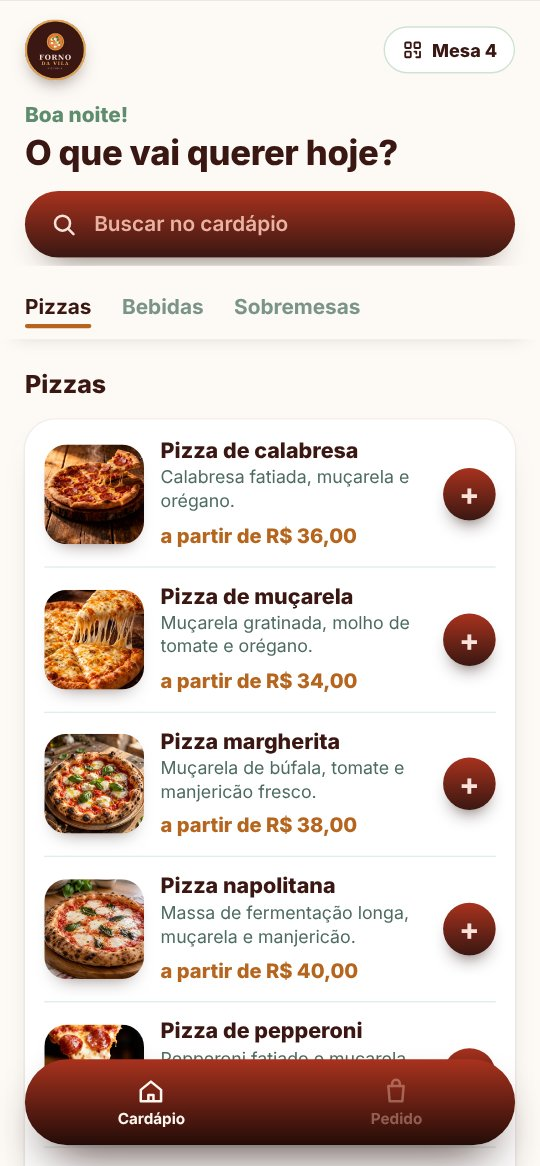
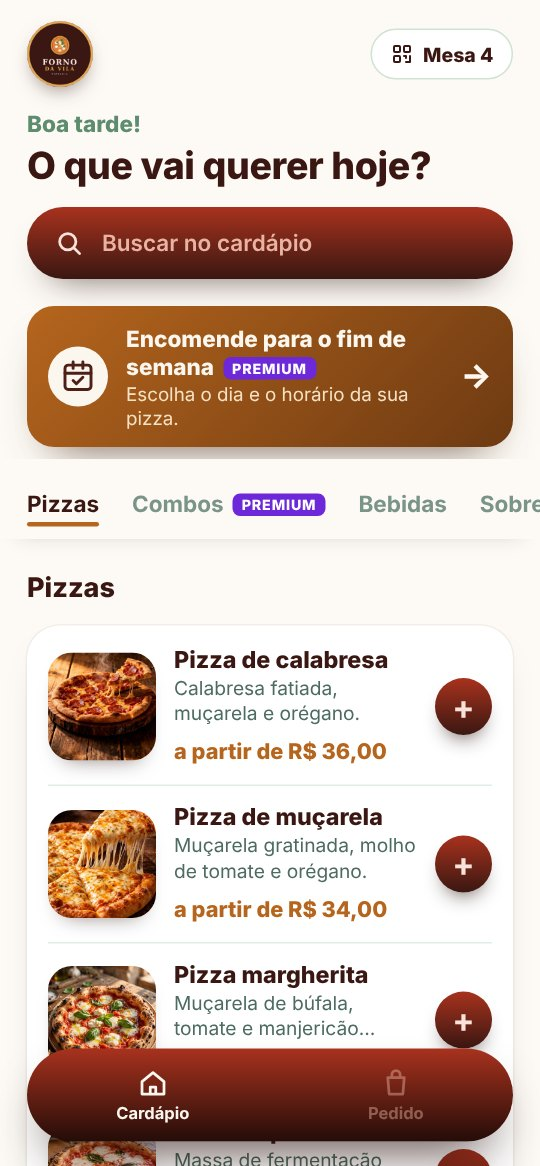
Premium com combos, faixa de encomenda e etiqueta PREMIUM; Meus pedidos só no MAX
Claude-Session: https://claude.ai/code/session_01HgHHTPfrbkb68SyEbuKcXt

diff --git a/public/demos/pizzaria/index.html b/public/demos/pizzaria/index.html
@@ -861,6 +861,8 @@ body > *:not(.palco):not(.toast):not(script):not(style):not(#toast):not(.faixa-p
 .faixa-plano{position:fixed;top:0;left:0;right:0;z-index:9999;height:34px;display:flex;align-items:center;justify-content:center;gap:8px;padding:0 10px;font:600 12px/1.2 Inter,system-ui,sans-serif;color:#EDE7FB;background:#1E1533;text-align:center;white-space:nowrap;overflow:hidden}
 .faixa-plano b{font-weight:800}
 .faixa-plano i{font-style:normal;font-size:10px;font-weight:800;letter-spacing:.06em;padding:2px 6px;border-radius:5px;background:#C9A227;color:#2E2203}
+.enc-faixa{padding:14px 18px 2px}.enc-faixa .enc-cartao{padding:12px 14px;gap:12px;border-radius:18px}.enc-faixa .enc-ic{width:40px;height:40px}.enc-faixa .enc-cartao b{font-size:15px}.enc-faixa .enc-cartao small{font-size:12.5px}
+.enc-cartao b::after,#cats [data-cat="encomendas"]::after,#cats [data-cat="combos"]::after{content:"PREMIUM";display:inline-block;margin-left:6px;padding:2px 6px;border-radius:5px;font:800 9.5px/1.2 Inter,system-ui,sans-serif;letter-spacing:.06em;background:#6D28D9;color:#fff;vertical-align:middle}
 </style>
 
 <header class="topo">
@@ -1020,14 +1022,14 @@ body > *:not(.palco):not(.toast):not(script):not(style):not(#toast):not(.faixa-p
   // ---------- cardápio ----------
   // g = gênero (para escrever por extenso: um/uma, dois/duas); s/p = singular/plural na comanda
   var F = 'img/';
-  var CATS_PADRAO = [{"id": "pizzas", "nome": "Pizzas", "curto": "Pizzas", "icon": "estrela", "visivel": true}, {"id": "bebidas", "nome": "Bebidas", "curto": "Bebidas", "icon": "frias", "visivel": true}, {"id": "sobremesas", "nome": "Sobremesas", "curto": "Sobremesas", "icon": "doces", "visivel": true}];
-  var PRODUTOS_PADRAO = [{"id": "calabresa", "cat": "pizzas", "g": "f", "s": "Pizza de calabresa", "p": "Pizzas de calabresa", "preco": 36, "desc": "Calabresa fatiada, muçarela e orégano.", "img": F + 'calabresa.jpg'}, {"id": "mucarela", "cat": "pizzas", "g": "f", "s": "Pizza de muçarela", "p": "Pizzas de muçarela", "preco": 34, "desc": "Muçarela gratinada, molho de tomate e orégano.", "img": F + 'mucarela.jpg'}, {"id": "margherita", "cat": "pizzas", "g": "f", "s": "Pizza margherita", "p": "Pizzas margherita", "preco": 38, "desc": "Muçarela de búfala, tomate e manjericão fresco.", "img": F + 'margherita.jpg'}, {"id": "napolitana", "cat": "pizzas", "g": "f", "s": "Pizza napolitana", "p": "Pizzas napolitanas", "preco": 40, "desc": "Massa de fermentação longa, muçarela e manjericão.", "img": F + 'napolitana.jpg'}, {"id": "pepperoni", "cat": "pizzas", "g": "f", "s": "Pizza de pepperoni", "p": "Pizzas de pepperoni", "preco": 44, "desc": "Pepperoni fatiado e muçarela puxa-puxa.", "img": F + 'pepperoni.jpg'}, {"id": "tomatecereja", "cat": "pizzas", "g": "f", "s": "Pizza de tomate-cereja", "p": "Pizzas de tomate-cereja", "preco": 42, "desc": "Tomate-cereja, muçarela e folhas de manjericão.", "img": F + 'tomatecereja.jpg'}, {"id": "suprema", "cat": "pizzas", "g": "f", "s": "Pizza suprema da casa", "p": "Pizzas supremas da casa", "preco": 46, "desc": "Pepperoni, pimentão, cebola roxa e champignon.", "img": F + 'suprema.jpg'}, {"id": "coca", "cat": "bebidas", "g": "m", "s": "Refrigerante 250 ml", "p": "Refrigerantes 250 ml", "preco": 7, "desc": "Garrafinha de vidro, bem gelada.", "img": F + 'coca.jpg'}, {"id": "suco", "cat": "bebidas", "g": "m", "s": "Suco natural", "p": "Sucos naturais", "preco": 10, "desc": "Laranja, verde ou frutas vermelhas.", "img": F + 'suco.jpg'}, {"id": "agua", "cat": "bebidas", "g": "f", "s": "Água mineral", "p": "Águas minerais", "preco": 4, "desc": "500 ml, com ou sem gás.", "img": F + 'agua.jpg'}, {"id": "pudim", "cat": "sobremesas", "g": "m", "s": "Pudim de leite", "p": "Pudins de leite", "preco": 10, "desc": "Fatia generosa com calda de caramelo.", "img": F + 'pudim.jpg'}, {"id": "brownie", "cat": "sobremesas", "g": "m", "s": "Brownie", "p": "Brownies", "preco": 10, "desc": "Chocolate meio amargo e casquinha crocante.", "img": F + 'brownie.jpg'}];
+  var CATS_PADRAO = [{"id": "pizzas", "nome": "Pizzas", "curto": "Pizzas", "icon": "estrela", "visivel": true}, {"id": "combos", "nome": "Combos", "curto": "Combos", "icon": "estrela", "visivel": true}, {"id": "bebidas", "nome": "Bebidas", "curto": "Bebidas", "icon": "frias", "visivel": true}, {"id": "sobremesas", "nome": "Sobremesas", "curto": "Sobremesas", "icon": "doces", "visivel": true}];
+  var PRODUTOS_PADRAO = [{"id": "calabresa", "cat": "pizzas", "g": "f", "s": "Pizza de calabresa", "p": "Pizzas de calabresa", "preco": 36, "desc": "Calabresa fatiada, muçarela e orégano.", "img": F + 'calabresa.jpg'}, {"id": "mucarela", "cat": "pizzas", "g": "f", "s": "Pizza de muçarela", "p": "Pizzas de muçarela", "preco": 34, "desc": "Muçarela gratinada, molho de tomate e orégano.", "img": F + 'mucarela.jpg'}, {"id": "margherita", "cat": "pizzas", "g": "f", "s": "Pizza margherita", "p": "Pizzas margherita", "preco": 38, "desc": "Muçarela de búfala, tomate e manjericão fresco.", "img": F + 'margherita.jpg'}, {"id": "napolitana", "cat": "pizzas", "g": "f", "s": "Pizza napolitana", "p": "Pizzas napolitanas", "preco": 40, "desc": "Massa de fermentação longa, muçarela e manjericão.", "img": F + 'napolitana.jpg'}, {"id": "pepperoni", "cat": "pizzas", "g": "f", "s": "Pizza de pepperoni", "p": "Pizzas de pepperoni", "preco": 44, "desc": "Pepperoni fatiado e muçarela puxa-puxa.", "img": F + 'pepperoni.jpg'}, {"id": "tomatecereja", "cat": "pizzas", "g": "f", "s": "Pizza de tomate-cereja", "p": "Pizzas de tomate-cereja", "preco": 42, "desc": "Tomate-cereja, muçarela e folhas de manjericão.", "img": F + 'tomatecereja.jpg'}, {"id": "suprema", "cat": "pizzas", "g": "f", "s": "Pizza suprema da casa", "p": "Pizzas supremas da casa", "preco": 46, "desc": "Pepperoni, pimentão, cebola roxa e champignon.", "img": F + 'suprema.jpg'}, {"id": "combofamilia", "cat": "combos", "g": "m", "s": "Combo família", "p": "Combos família", "preco": 59, "desc": "Pizza grande de calabresa ou muçarela + refrigerante 2 L.", "img": F + 'calabresa.jpg'}, {"id": "combocasal", "cat": "combos", "g": "m", "s": "Combo casal", "p": "Combos casal", "preco": 49, "desc": "Pizza margherita + 2 refrigerantes 250 ml.", "img": F + 'margherita.jpg'}, {"id": "coca", "cat": "bebidas", "g": "m", "s": "Refrigerante 250 ml", "p": "Refrigerantes 250 ml", "preco": 7, "desc": "Garrafinha de vidro, bem gelada.", "img": F + 'coca.jpg'}, {"id": "suco", "cat": "bebidas", "g": "m", "s": "Suco natural", "p": "Sucos naturais", "preco": 10, "desc": "Laranja, verde ou frutas vermelhas.", "img": F + 'suco.jpg'}, {"id": "agua", "cat": "bebidas", "g": "f", "s": "Água mineral", "p": "Águas minerais", "preco": 4, "desc": "500 ml, com ou sem gás.", "img": F + 'agua.jpg'}, {"id": "pudim", "cat": "sobremesas", "g": "m", "s": "Pudim de leite", "p": "Pudins de leite", "preco": 10, "desc": "Fatia generosa com calda de caramelo.", "img": F + 'pudim.jpg'}, {"id": "brownie", "cat": "sobremesas", "g": "m", "s": "Brownie", "p": "Brownies", "preco": 10, "desc": "Chocolate meio amargo e casquinha crocante.", "img": F + 'brownie.jpg'}];
   PRODUTOS_PADRAO.forEach(function(p){ if (!p.nome) p.nome = p.s; p.esgotado = false; });
   var LOJA_PADRAO = {"nome": "Forno da Vila", "whats": "5535999945992"};
   var SEM_FOTO = svg('<rect x="16" y="20" width="32" height="24" rx="4" fill="none" stroke="#8C8A72" stroke-width="2.5"/><circle cx="32" cy="32" r="6" fill="none" stroke="#8C8A72" stroke-width="2.5"/><path d="M26 20l2-4h8l2 4" fill="none" stroke="#8C8A72" stroke-width="2.5" stroke-linejoin="round"/>');
 
   // o cardápio (categorias, produtos e dados da loja) fica salvo e pode ser editado pelo dono
-  var CHAVE_CARD = 'pizzaria-cardapio-v2';
+  var CHAVE_CARD = 'pizzaria-cardapio-v3';
   function cardapioPadrao(){ return JSON.parse(JSON.stringify({cats:CATS_PADRAO, produtos:PRODUTOS_PADRAO, loja:LOJA_PADRAO})); }
   var card;
   try { card = JSON.parse(localStorage.getItem(CHAVE_CARD) || 'null'); } catch(e) { card = null; }
@@ -1106,11 +1108,11 @@ body > *:not(.palco):not(.toast):not(script):not(style):not(#toast):not(.faixa-p
   var somLigado = true, aba = 'cliente', naoVistos = 0, ultimoImpresso = null;
   // ---------- planos (a demonstração muda conforme o plano escolhido no topo) ----------
   var PLANOS = {
-    pro:{nome:'PRO', mesas:6, produtos:30, auto:true, meus:false, selo:true, enc:false, tv:false, data:false, conta:false, garcom:false, dst:false, obs:false,
+    pro:{nome:'PRO', mesas:6, produtos:30, auto:true, combos:false, lista:false, meus:false, selo:true, enc:false, tv:false, data:false, conta:false, garcom:false, dst:false, obs:false,
       desc:'<b>PRO · R$ 129,90/mês.</b> Até 6 mesas e 30 produtos. Comanda impressa automaticamente. O cliente vê só o número do pedido. Selo "Feito por Octa Sites" no cardápio.'},
-    premium:{nome:'PREMIUM', mesas:10, produtos:45, auto:true, meus:true, selo:false, enc:true, tv:false, data:false, conta:false, garcom:false, dst:false, obs:true,
-      desc:'<b>PREMIUM · R$ 189,90/mês.</b> Até 10 mesas e 45 produtos. Adicionais e combos, promoções em destaque e encomendas com data. O cliente acompanha o pedido em "Meus pedidos".'},
-    max:{nome:'MAX', mesas:0, produtos:0, auto:true, meus:true, selo:false, enc:true, tv:false, data:true, conta:true, garcom:true, dst:true, obs:true,
+    premium:{nome:'PREMIUM', mesas:10, produtos:45, auto:true, combos:true, lista:false, meus:true, selo:false, enc:true, tv:false, data:false, conta:false, garcom:false, dst:false, obs:true,
+      desc:'<b>PREMIUM · R$ 189,90/mês.</b> Até 10 mesas e 45 produtos. Adicionais e combos e encomendas com data. O cliente acompanha o preparo do pedido pelo celular.'},
+    max:{nome:'MAX', mesas:0, produtos:0, auto:true, combos:true, lista:true, meus:true, selo:false, enc:true, tv:false, data:true, conta:true, garcom:true, dst:true, obs:true,
       desc:'<b>MAX · R$ 249,90/mês.</b> Tudo do Premium, sem limite de mesas e produtos, pedir a conta dividida e chamar o garçom pelo celular.'}
   };
   var plano = 'premium';
@@ -1184,7 +1186,7 @@ body > *:not(.palco):not(.toast):not(script):not(style):not(#toast):not(.faixa-p
       : (ativos.length ? (ativos.length === 1 ? 'Pedido nº ' + ativos[0].id + ' em preparo' : ativos.length + ' pedidos em preparo') : 'Seus pedidos de hoje');
     return '<i class="' + (prontos.length ? 'pronto' : (ativos.length ? '' : 'parado')) + '" aria-hidden="true"></i>' + txt;
   }
-  function faixaMeus(){ return P().meus && meusPedidos().length ? '<button type="button" class="meus-faixa" data-acao="meus"><span id="meusTxt">' + textoFaixaMeus() + '</span><u>Meus pedidos →</u></button>' : ''; }
+  function faixaMeus(){ return P().lista && meusPedidos().length ? '<button type="button" class="meus-faixa" data-acao="meus"><span id="meusTxt">' + textoFaixaMeus() + '</span><u>Meus pedidos →</u></button>' : ''; }
   function atualizarCliente(){
     if (cli.tela === 'confirmado' || cli.tela === 'meus' || cli.tela === 'conta') { var y = guardarRolagem(); renderCliente(); restaurarRolagem(y); }
     else { var t = $('meusTxt'); if (t) t.innerHTML = textoFaixaMeus(); else if (meusPedidos().length && (cli.tela === 'cardapio' || cli.tela === 'revisao')) { var y2 = guardarRolagem(); renderCliente(); restaurarRolagem(y2); } }
@@ -1377,7 +1379,7 @@ body > *:not(.palco):not(.toast):not(script):not(style):not(#toast):not(.faixa-p
         '</div>' + (P().enc ? '<button type="button" class="ir-encomenda" data-acao="ir-encomenda">' + ICON.agenda + '<span><b>Encomendas com data marcada</b><span>Bolos inteiros, tortas e salgados para festas</span></span></button>' : '') + '</div>';
     }
     else if (cli.tela === 'cardapio') {
-      var visiveis = CATS.filter(function(c){ return c.visivel && PRODUTOS.some(function(p){ return p.cat === c.id; }); });
+      var visiveis = CATS.filter(function(c){ return c.visivel && (c.id !== 'combos' || P().combos) && PRODUTOS.some(function(p){ return p.cat === c.id; }); });
       if (!cli.aba || (cli.aba !== 'encomendas' && !visiveis.some(function(c){ return c.id === cli.aba; }))) cli.aba = (visiveis.filter(function(c){ return c.id === 'cafes'; })[0] || visiveis[0] || {}).id;
       var hr = new Date().getHours(), oi = hr < 12 ? 'Bom dia!' : hr < 18 ? 'Boa tarde!' : 'Boa noite!';
       h += '<div class="app" id="lista">';
@@ -1395,6 +1397,7 @@ body > *:not(.palco):not(.toast):not(script):not(style):not(#toast):not(.faixa-p
         if (P().data) destq.push('<button type="button" class="dst dst-natal" data-acao="ver-prod" data-id="suprema" style="--f:url(\'img/natal.jpg\')"><span class="dst-tag">Quarta da pizza</span><b>Pizza grande</b><small>Pelo preço da média, toda quarta</small></button>');
         if (P().dst) ['margherita', 'pepperoni', 'mucarela', 'tomatecereja'].forEach(function(id){ var p = PROD[id]; if (p && !p.esgotado) destq.push('<button type="button" class="dst" data-acao="ver-prod" data-id="' + p.id + '" style="--f:url(\'' + p.img + '\')"><span class="dst-tag">Destaque</span><b>' + esc(p.nome) + '</b><small>' + fmt(p.preco) + '</small></button>'); });
         if (destq.length) h += '<div class="dst-faixa" aria-label="Destaques do dia">' + destq.join('') + '</div>';
+        else if (P().enc) h += '<div class="enc-faixa"><button type="button" class="enc-cartao" data-acao="abrir-enc"><span class="enc-ic">' + ICON.agenda + '</span><span><b>Encomende para o fim de semana</b><small>Escolha o dia e o horário da sua pizza.</small></span><span class="enc-seta" aria-hidden="true">→</span></button></div>';
         h += '<nav class="app-abas" id="cats" aria-label="Categorias">';
         visiveis.forEach(function(c, k){ h += '<button type="button" data-acao="aba" data-cat="' + c.id + '"' + (k === 0 ? ' aria-current="true"' : '') + '>' + esc(c.curto || c.nome) + '</button>'; });
         if (P().enc) h += '<button type="button" data-acao="aba" data-cat="encomendas">Encomendas</button>';
@@ -1409,7 +1412,7 @@ body > *:not(.palco):not(.toast):not(script):not(style):not(#toast):not(.faixa-p
       if (n) h += '<button type="button" class="app-resumo" data-acao="revisar"><span>' + n + (n === 1 ? ' item' : ' itens') + ' no pedido</span><b>Ver pedido · ' + fmt(totalDe(cli.carrinho)) + '</b></button>';
       h += '<nav class="app-nav" aria-label="Navegação"><button type="button" data-acao="aba-inicio" aria-current="true" aria-label="Cardápio">' + CASA + '<span>Cardápio</span></button>' +
         '<button type="button" data-acao="revisar"' + (n ? '' : ' disabled') + ' aria-label="Meu pedido">' + SACOLA + '<span>Pedido</span>' + (n ? '<em>' + n + '</em>' : '') + '</button>' +
-        (temMesa() ? '<button type="button" data-acao="mesa-painel" aria-expanded="' + !!cli.painelMesa + '" aria-label="Mesa">' + SINO + '<span>Mesa</span></button>' : (P().meus && meusPedidos().length ? '<button type="button" data-acao="meus" aria-label="Meus pedidos">' + RECIBO + '<span>Pedidos</span></button>' : '')) + '</nav>';
+        (temMesa() ? '<button type="button" data-acao="mesa-painel" aria-expanded="' + !!cli.painelMesa + '" aria-label="Mesa">' + SINO + '<span>Mesa</span></button>' : (P().lista && meusPedidos().length ? '<button type="button" data-acao="meus" aria-label="Meus pedidos">' + RECIBO + '<span>Pedidos</span></button>' : '')) + '</nav>';
       if (cli.painelMesa && temMesa()) h += '<div class="app-mesa" role="dialog" aria-label="Mesa ' + cli.mesa + '"><b>Mesa ' + cli.mesa + '</b>' + mesaAcoes() + '<button type="button" class="app-mesa-x" data-acao="mesa-painel">Fechar</button></div>';
       if (cli.verProd) h += telaProduto();
       if (cli.verEnc && P().enc) h += '<div class="prod-tela enc-tela" role="dialog" aria-modal="true" aria-label="Encomendas"><div class="enc-topo"><button type="button" class="voltar-prod" data-acao="fechar-enc" aria-label="Voltar ao cardápio">←</button><b>Encomendas</b></div><div class="enc-corpo">' + blocoEncomenda() + '</div></div>';
@@ -1452,9 +1455,9 @@ body > *:not(.palco):not(.toast):not(script):not(style):not(#toast):not(.faixa-p
       });
       var nMeus = meusPedidos().length;
       h += '</ol><p class="dica-painel">Na demonstração, mude o status no painel da padaria e veja esta tela atualizar.</p><button type="button" class="btn-sec" data-acao="novo">Fazer outro pedido</button>' +
-        (nMeus > 1 ? '<button type="button" class="btn-sec" data-acao="meus" style="border-color:var(--borda)">Ver todos os meus pedidos (' + nMeus + ')</button>' : '') + '</div></div>';
+        (P().lista && nMeus > 1 ? '<button type="button" class="btn-sec" data-acao="meus" style="border-color:var(--borda)">Ver todos os meus pedidos (' + nMeus + ')</button>' : '') + '</div></div>';
     }
-    else if (cli.tela === 'meus' && !P().meus) { cli.tela = 'cardapio'; return renderCliente(); }
+    else if (cli.tela === 'meus' && !P().lista) { cli.tela = 'cardapio'; return renderCliente(); }
     else if (cli.tela === 'meus') {
       var NOME_ST = {novo:'Em preparo', pronto:'Pronto', entregue:'Entregue'};
       h += '<div class="rolagem"><div class="sec"><button type="button" class="voltar" data-acao="voltar">← Voltar ao cardápio</button><h3 style="font-size:15px;font-weight:800;letter-spacing:.09em;text-transform:uppercase;color:var(--vinho);margin:4px 0 12px;padding-bottom:8px;border-bottom:2px solid var(--ouro)">Meus pedidos de hoje</h3><div class="meus-lista">';
@@ -2070,7 +2073,7 @@ body > *:not(.palco):not(.toast):not(script):not(style):not(#toast):not(.faixa-p
     $('impTexto').textContent = p.auto ? 'Cada pedido novo toca um aviso e é impresso na hora, com o destino em letras grandes.' : 'Cada pedido novo toca um aviso no painel. A equipe toca em "Imprimir" e a comanda sai, com o destino em letras grandes.';
     $('impEnc').hidden = !p.enc;
     if (cli.modo === 'mesa' && p.mesas && cli.mesa > p.mesas) { var enc = cli.enc; cli = novoCliente(); cli.enc = enc; }
-    if (!p.meus && cli.tela === 'meus') cli.tela = 'cardapio';
+    if (!p.lista && cli.tela === 'meus') cli.tela = 'cardapio';
     if (!p.conta && cli.tela === 'conta') cli.tela = 'cardapio';
     montarQR(); renderCliente(); renderPainel(); renderEditor();
   }

diff --git a/public/demos/marmitaria/index.html b/public/demos/marmitaria/index.html
@@ -1119,12 +1119,12 @@ body > *:not(.palco):not(.toast):not(script):not(style):not(#toast):not(#zapNoti
   var somLigado = true, aba = 'cliente', naoVistos = 0, ultimoImpresso = null;
   // ---------- planos (a demonstração muda conforme o plano escolhido no topo) ----------
   var PLANOS = {
-    delivery:{nome:'OCTA DELIVERY', mesas:0, produtos:30, auto:true, meus:true, selo:true, enc:false, tv:false, data:false, conta:false, garcom:false, desc:''},
-    pro:{nome:'PRO', mesas:6, produtos:30, auto:true, meus:false, selo:true, enc:false, tv:false, data:false, conta:false, garcom:false,
+    delivery:{nome:'OCTA DELIVERY', mesas:0, produtos:30, auto:true, lista:false, meus:true, selo:true, enc:false, tv:false, data:false, conta:false, garcom:false, desc:''},
+    pro:{nome:'PRO', mesas:6, produtos:30, auto:true, lista:false, meus:false, selo:true, enc:false, tv:false, data:false, conta:false, garcom:false,
       desc:'<b>PRO · R$ 129,90/mês.</b> Até 6 mesas e 30 produtos. Comanda impressa automaticamente. O cliente vê só o número do pedido. Selo "Feito por Octa Sites" no cardápio.'},
-    premium:{nome:'PREMIUM', mesas:10, produtos:45, auto:true, meus:true, selo:false, enc:true, tv:false, data:false, conta:false, garcom:false,
+    premium:{nome:'PREMIUM', mesas:10, produtos:45, auto:true, lista:false, meus:true, selo:false, enc:true, tv:false, data:false, conta:false, garcom:false,
       desc:'<b>PREMIUM · R$ 189,90/mês.</b> Até 10 mesas e 45 produtos. Adicionais e combos, promoções em destaque e encomendas com data. O cliente acompanha o pedido.'},
-    max:{nome:'MAX', mesas:0, produtos:0, auto:true, meus:true, selo:false, enc:true, tv:false, data:true, conta:true, garcom:true,
+    max:{nome:'MAX', mesas:0, produtos:0, auto:true, lista:true, meus:true, selo:false, enc:true, tv:false, data:true, conta:true, garcom:true,
       desc:'<b>MAX · R$ 249,90/mês.</b> Tudo do Premium, sem limite de mesas e produtos, pedir a conta dividida, chamar o garçom pelo celular e relatório mensal.'}
   };
   var plano = 'delivery';
@@ -1198,7 +1198,7 @@ body > *:not(.palco):not(.toast):not(script):not(style):not(#toast):not(#zapNoti
       : (ativos.length ? (ativos.length === 1 ? 'Pedido nº ' + ativos[0].id + ' em preparo' : ativos.length + ' pedidos em preparo') : 'Seus pedidos de hoje');
     return '<i class="' + (prontos.length ? 'pronto' : (ativos.length ? '' : 'parado')) + '" aria-hidden="true"></i>' + txt;
   }
-  function faixaMeus(){ return P().meus && meusPedidos().length ? '<button type="button" class="meus-faixa" data-acao="meus"><span id="meusTxt">' + textoFaixaMeus() + '</span><u>Meus pedidos →</u></button>' : ''; }
+  function faixaMeus(){ return P().lista && meusPedidos().length ? '<button type="button" class="meus-faixa" data-acao="meus"><span id="meusTxt">' + textoFaixaMeus() + '</span><u>Meus pedidos →</u></button>' : ''; }
   function atualizarCliente(){
     if (cli.tela === 'confirmado' || cli.tela === 'meus' || cli.tela === 'conta') { var y = guardarRolagem(); renderCliente(); restaurarRolagem(y); }
     else { var t = $('meusTxt'); if (t) t.innerHTML = textoFaixaMeus(); else if (meusPedidos().length && (cli.tela === 'cardapio' || cli.tela === 'revisao')) { var y2 = guardarRolagem(); renderCliente(); restaurarRolagem(y2); } }
@@ -1423,7 +1423,7 @@ body > *:not(.palco):not(.toast):not(script):not(style):not(#toast):not(#zapNoti
       if (n) h += '<button type="button" class="app-resumo" data-acao="revisar"><span>' + n + (n === 1 ? ' item' : ' itens') + ' no pedido</span><b>Ver pedido · ' + fmt(totalDe(cli.carrinho)) + '</b></button>';
       h += '<nav class="app-nav" aria-label="Navegação"><button type="button" data-acao="aba-inicio" aria-current="true" aria-label="Cardápio">' + CASA + '<span>Cardápio</span></button>' +
         '<button type="button" data-acao="revisar"' + (n ? '' : ' disabled') + ' aria-label="Meu pedido">' + SACOLA + '<span>Pedido</span>' + (n ? '<em>' + n + '</em>' : '') + '</button>' +
-        (temMesa() ? '<button type="button" data-acao="mesa-painel" aria-expanded="' + !!cli.painelMesa + '" aria-label="Mesa">' + SINO + '<span>Mesa</span></button>' : (P().meus && meusPedidos().length ? '<button type="button" data-acao="meus" aria-label="Meus pedidos">' + RECIBO + '<span>Pedidos</span></button>' : '')) + '</nav>';
+        (temMesa() ? '<button type="button" data-acao="mesa-painel" aria-expanded="' + !!cli.painelMesa + '" aria-label="Mesa">' + SINO + '<span>Mesa</span></button>' : (P().lista && meusPedidos().length ? '<button type="button" data-acao="meus" aria-label="Meus pedidos">' + RECIBO + '<span>Pedidos</span></button>' : '')) + '</nav>';
       if (cli.painelMesa && temMesa()) h += '<div class="app-mesa" role="dialog" aria-label="Mesa ' + cli.mesa + '"><b>Mesa ' + cli.mesa + '</b>' + mesaAcoes() + '<button type="button" class="app-mesa-x" data-acao="mesa-painel">Fechar</button></div>';
       if (cli.verProd) h += telaProduto();
       if (cli.verEnc && P().enc) h += '<div class="prod-tela enc-tela" role="dialog" aria-modal="true" aria-label="Encomendas"><div class="enc-topo"><button type="button" class="voltar-prod" data-acao="fechar-enc" aria-label="Voltar ao cardápio">←</button><b>Encomendas</b></div><div class="enc-corpo">' + blocoEncomenda() + '</div></div>';
@@ -1468,9 +1468,9 @@ body > *:not(.palco):not(.toast):not(script):not(style):not(#toast):not(#zapNoti
       });
       var nMeus = meusPedidos().length;
       h += '</ol><p class="dica-painel">Na demonstração, mude o status no painel da padaria e veja esta tela atualizar.</p><button type="button" class="btn-sec" data-acao="novo">Fazer outro pedido</button>' +
-        (nMeus > 1 ? '<button type="button" class="btn-sec" data-acao="meus" style="border-color:var(--borda)">Ver todos os meus pedidos (' + nMeus + ')</button>' : '') + '</div></div>';
+        (P().lista && nMeus > 1 ? '<button type="button" class="btn-sec" data-acao="meus" style="border-color:var(--borda)">Ver todos os meus pedidos (' + nMeus + ')</button>' : '') + '</div></div>';
     }
-    else if (cli.tela === 'meus' && !P().meus) { cli.tela = 'cardapio'; return renderCliente(); }
+    else if (cli.tela === 'meus' && !P().lista) { cli.tela = 'cardapio'; return renderCliente(); }
     else if (cli.tela === 'meus') {
       var NOME_ST = {novo:'Em preparo', pronto:'Pronto', entregue:'Entregue'};
       h += '<div class="rolagem"><div class="sec"><button type="button" class="voltar" data-acao="voltar">← Voltar ao cardápio</button><h3 style="font-size:15px;font-weight:800;letter-spacing:.09em;text-transform:uppercase;color:var(--vinho);margin:4px 0 12px;padding-bottom:8px;border-bottom:2px solid var(--ouro)">Meus pedidos de hoje</h3><div class="meus-lista">';
@@ -2164,7 +2164,7 @@ body > *:not(.palco):not(.toast):not(script):not(style):not(#toast):not(#zapNoti
     $('impTexto').textContent = p.auto ? 'Cada pedido novo toca um aviso e é impresso na hora, com o destino em letras grandes.' : 'Cada pedido novo toca um aviso no painel. A equipe toca em "Imprimir" e a comanda sai, com o destino em letras grandes.';
     $('impEnc').hidden = !p.enc;
     if (cli.modo === 'mesa' && p.mesas && cli.mesa > p.mesas) { var enc = cli.enc; cli = novoCliente(); cli.enc = enc; }
-    if (!p.meus && cli.tela === 'meus') cli.tela = 'cardapio';
+    if (!p.lista && cli.tela === 'meus') cli.tela = 'cardapio';
     if (!p.conta && cli.tela === 'conta') cli.tela = 'cardapio';
     montarQR(); renderCliente(); renderPainel(); renderEditor();
   }

diff --git a/public/demos/hamburgueria/index.html b/public/demos/hamburgueria/index.html
@@ -1108,11 +1108,11 @@ body > *:not(.palco):not(.toast):not(script):not(style):not(#toast):not(.faixa-p
   var somLigado = true, aba = 'cliente', naoVistos = 0, ultimoImpresso = null;
   // ---------- planos (a demonstração muda conforme o plano escolhido no topo) ----------
   var PLANOS = {
-    pro:{nome:'PRO', mesas:6, produtos:30, auto:true, meus:false, selo:true, enc:false, tv:false, data:false, conta:false, garcom:false, dst:false, obs:false,
+    pro:{nome:'PRO', mesas:6, produtos:30, auto:true, lista:false, meus:false, selo:true, enc:false, tv:false, data:false, conta:false, garcom:false, dst:false, obs:false,
       desc:'<b>PRO · R$ 129,90/mês.</b> Até 6 mesas e 30 produtos. Comanda impressa automaticamente. O cliente vê só o número do pedido. Selo "Feito por Octa Sites" no cardápio.'},
-    premium:{nome:'PREMIUM', mesas:10, produtos:45, auto:true, meus:true, selo:false, enc:true, tv:false, data:false, conta:false, garcom:false, dst:false, obs:true,
-      desc:'<b>PREMIUM · R$ 189,90/mês.</b> Até 10 mesas e 45 produtos. Adicionais e combos, promoções em destaque e encomendas com data. O cliente acompanha o pedido em "Meus pedidos".'},
-    max:{nome:'MAX', mesas:0, produtos:0, auto:true, meus:true, selo:false, enc:true, tv:false, data:true, conta:true, garcom:true, dst:true, obs:true,
+    premium:{nome:'PREMIUM', mesas:10, produtos:45, auto:true, lista:false, meus:true, selo:false, enc:true, tv:false, data:false, conta:false, garcom:false, dst:false, obs:true,
+      desc:'<b>PREMIUM · R$ 189,90/mês.</b> Até 10 mesas e 45 produtos. Adicionais e combos e encomendas com data. O cliente acompanha o preparo do pedido pelo celular.'},
+    max:{nome:'MAX', mesas:0, produtos:0, auto:true, lista:true, meus:true, selo:false, enc:true, tv:false, data:true, conta:true, garcom:true, dst:true, obs:true,
       desc:'<b>MAX · R$ 249,90/mês.</b> Tudo do Premium, sem limite de mesas e produtos, pedir a conta dividida e chamar o garçom pelo celular.'}
   };
   var plano = 'premium';
@@ -1186,7 +1186,7 @@ body > *:not(.palco):not(.toast):not(script):not(style):not(#toast):not(.faixa-p
       : (ativos.length ? (ativos.length === 1 ? 'Pedido nº ' + ativos[0].id + ' em preparo' : ativos.length + ' pedidos em preparo') : 'Seus pedidos de hoje');
     return '<i class="' + (prontos.length ? 'pronto' : (ativos.length ? '' : 'parado')) + '" aria-hidden="true"></i>' + txt;
   }
-  function faixaMeus(){ return P().meus && meusPedidos().length ? '<button type="button" class="meus-faixa" data-acao="meus"><span id="meusTxt">' + textoFaixaMeus() + '</span><u>Meus pedidos →</u></button>' : ''; }
+  function faixaMeus(){ return P().lista && meusPedidos().length ? '<button type="button" class="meus-faixa" data-acao="meus"><span id="meusTxt">' + textoFaixaMeus() + '</span><u>Meus pedidos →</u></button>' : ''; }
   function atualizarCliente(){
     if (cli.tela === 'confirmado' || cli.tela === 'meus' || cli.tela === 'conta') { var y = guardarRolagem(); renderCliente(); restaurarRolagem(y); }
     else { var t = $('meusTxt'); if (t) t.innerHTML = textoFaixaMeus(); else if (meusPedidos().length && (cli.tela === 'cardapio' || cli.tela === 'revisao')) { var y2 = guardarRolagem(); renderCliente(); restaurarRolagem(y2); } }
@@ -1411,7 +1411,7 @@ body > *:not(.palco):not(.toast):not(script):not(style):not(#toast):not(.faixa-p
       if (n) h += '<button type="button" class="app-resumo" data-acao="revisar"><span>' + n + (n === 1 ? ' item' : ' itens') + ' no pedido</span><b>Ver pedido · ' + fmt(totalDe(cli.carrinho)) + '</b></button>';
       h += '<nav class="app-nav" aria-label="Navegação"><button type="button" data-acao="aba-inicio" aria-current="true" aria-label="Cardápio">' + CASA + '<span>Cardápio</span></button>' +
         '<button type="button" data-acao="revisar"' + (n ? '' : ' disabled') + ' aria-label="Meu pedido">' + SACOLA + '<span>Pedido</span>' + (n ? '<em>' + n + '</em>' : '') + '</button>' +
-        (temMesa() ? '<button type="button" data-acao="mesa-painel" aria-expanded="' + !!cli.painelMesa + '" aria-label="Mesa">' + SINO + '<span>Mesa</span></button>' : (P().meus && meusPedidos().length ? '<button type="button" data-acao="meus" aria-label="Meus pedidos">' + RECIBO + '<span>Pedidos</span></button>' : '')) + '</nav>';
+        (temMesa() ? '<button type="button" data-acao="mesa-painel" aria-expanded="' + !!cli.painelMesa + '" aria-label="Mesa">' + SINO + '<span>Mesa</span></button>' : (P().lista && meusPedidos().length ? '<button type="button" data-acao="meus" aria-label="Meus pedidos">' + RECIBO + '<span>Pedidos</span></button>' : '')) + '</nav>';
       if (cli.painelMesa && temMesa()) h += '<div class="app-mesa" role="dialog" aria-label="Mesa ' + cli.mesa + '"><b>Mesa ' + cli.mesa + '</b>' + mesaAcoes() + '<button type="button" class="app-mesa-x" data-acao="mesa-painel">Fechar</button></div>';
       if (cli.verProd) h += telaProduto();
       if (cli.verEnc && P().enc) h += '<div class="prod-tela enc-tela" role="dialog" aria-modal="true" aria-label="Encomendas"><div class="enc-topo"><button type="button" class="voltar-prod" data-acao="fechar-enc" aria-label="Voltar ao cardápio">←</button><b>Encomendas</b></div><div class="enc-corpo">' + blocoEncomenda() + '</div></div>';
@@ -1454,9 +1454,9 @@ body > *:not(.palco):not(.toast):not(script):not(style):not(#toast):not(.faixa-p
       });
       var nMeus = meusPedidos().length;
       h += '</ol><p class="dica-painel">Na demonstração, mude o status no painel da padaria e veja esta tela atualizar.</p><button type="button" class="btn-sec" data-acao="novo">Fazer outro pedido</button>' +
-        (nMeus > 1 ? '<button type="button" class="btn-sec" data-acao="meus" style="border-color:var(--borda)">Ver todos os meus pedidos (' + nMeus + ')</button>' : '') + '</div></div>';
+        (P().lista && nMeus > 1 ? '<button type="button" class="btn-sec" data-acao="meus" style="border-color:var(--borda)">Ver todos os meus pedidos (' + nMeus + ')</button>' : '') + '</div></div>';
     }
-    else if (cli.tela === 'meus' && !P().meus) { cli.tela = 'cardapio'; return renderCliente(); }
+    else if (cli.tela === 'meus' && !P().lista) { cli.tela = 'cardapio'; return renderCliente(); }
     else if (cli.tela === 'meus') {
       var NOME_ST = {novo:'Em preparo', pronto:'Pronto', entregue:'Entregue'};
       h += '<div class="rolagem"><div class="sec"><button type="button" class="voltar" data-acao="voltar">← Voltar ao cardápio</button><h3 style="font-size:15px;font-weight:800;letter-spacing:.09em;text-transform:uppercase;color:var(--vinho);margin:4px 0 12px;padding-bottom:8px;border-bottom:2px solid var(--ouro)">Meus pedidos de hoje</h3><div class="meus-lista">';
@@ -2072,7 +2072,7 @@ body > *:not(.palco):not(.toast):not(script):not(style):not(#toast):not(.faixa-p
     $('impTexto').textContent = p.auto ? 'Cada pedido novo toca um aviso e é impresso na hora, com o destino em letras grandes.' : 'Cada pedido novo toca um aviso no painel. A equipe toca em "Imprimir" e a comanda sai, com o destino em letras grandes.';
     $('impEnc').hidden = !p.enc;
     if (cli.modo === 'mesa' && p.mesas && cli.mesa > p.mesas) { var enc = cli.enc; cli = novoCliente(); cli.enc = enc; }
-    if (!p.meus && cli.tela === 'meus') cli.tela = 'cardapio';
+    if (!p.lista && cli.tela === 'meus') cli.tela = 'cardapio';
     if (!p.conta && cli.tela === 'conta') cli.tela = 'cardapio';
     montarQR(); renderCliente(); renderPainel(); renderEditor();
   }

diff --git a/public/demos/padaria/index.html b/public/demos/padaria/index.html
@@ -1142,11 +1142,11 @@ body > *:not(.palco):not(.toast):not(script):not(style):not(#toast):not(.faixa-p
   var somLigado = true, aba = 'cliente', naoVistos = 0, ultimoImpresso = null;
   // ---------- planos (a demonstração muda conforme o plano escolhido no topo) ----------
   var PLANOS = {
-    pro:{nome:'PRO', mesas:6, produtos:30, auto:true, meus:false, selo:true, enc:false, tv:false, data:false, conta:false, garcom:false, dst:false, obs:false,
+    pro:{nome:'PRO', mesas:6, produtos:30, auto:true, lista:false, meus:false, selo:true, enc:false, tv:false, data:false, conta:false, garcom:false, dst:false, obs:false,
       desc:'<b>PRO · R$ 129,90/mês.</b> Até 6 mesas e 30 produtos. Comanda impressa automaticamente. O cliente vê só o número do pedido. Selo "Feito por Octa Sites" no cardápio.'},
-    premium:{nome:'PREMIUM', mesas:10, produtos:45, auto:true, meus:true, selo:false, enc:true, tv:false, data:false, conta:false, garcom:false, dst:false, obs:true,
-      desc:'<b>PREMIUM · R$ 189,90/mês.</b> Até 10 mesas e 45 produtos. Adicionais e combos, promoções em destaque e encomendas com data. O cliente acompanha o pedido em "Meus pedidos".'},
-    max:{nome:'MAX', mesas:0, produtos:0, auto:true, meus:true, selo:false, enc:true, tv:false, data:true, conta:true, garcom:true, dst:true, obs:true,
+    premium:{nome:'PREMIUM', mesas:10, produtos:45, auto:true, lista:false, meus:true, selo:false, enc:true, tv:false, data:false, conta:false, garcom:false, dst:false, obs:true,
+      desc:'<b>PREMIUM · R$ 189,90/mês.</b> Até 10 mesas e 45 produtos. Adicionais e combos e encomendas com data. O cliente acompanha o preparo do pedido pelo celular.'},
+    max:{nome:'MAX', mesas:0, produtos:0, auto:true, lista:true, meus:true, selo:false, enc:true, tv:false, data:true, conta:true, garcom:true, dst:true, obs:true,
       desc:'<b>MAX · R$ 249,90/mês.</b> Tudo do Premium, sem limite de mesas e produtos, pedir a conta dividida e chamar o garçom pelo celular.'}
   };
   var plano = 'premium';
@@ -1220,7 +1220,7 @@ body > *:not(.palco):not(.toast):not(script):not(style):not(#toast):not(.faixa-p
       : (ativos.length ? (ativos.length === 1 ? 'Pedido nº ' + ativos[0].id + ' em preparo' : ativos.length + ' pedidos em preparo') : 'Seus pedidos de hoje');
     return '<i class="' + (prontos.length ? 'pronto' : (ativos.length ? '' : 'parado')) + '" aria-hidden="true"></i>' + txt;
   }
-  function faixaMeus(){ return P().meus && meusPedidos().length ? '<button type="button" class="meus-faixa" data-acao="meus"><span id="meusTxt">' + textoFaixaMeus() + '</span><u>Meus pedidos →</u></button>' : ''; }
+  function faixaMeus(){ return P().lista && meusPedidos().length ? '<button type="button" class="meus-faixa" data-acao="meus"><span id="meusTxt">' + textoFaixaMeus() + '</span><u>Meus pedidos →</u></button>' : ''; }
   function atualizarCliente(){
     if (cli.tela === 'confirmado' || cli.tela === 'meus' || cli.tela === 'conta') { var y = guardarRolagem(); renderCliente(); restaurarRolagem(y); }
     else { var t = $('meusTxt'); if (t) t.innerHTML = textoFaixaMeus(); else if (meusPedidos().length && (cli.tela === 'cardapio' || cli.tela === 'revisao')) { var y2 = guardarRolagem(); renderCliente(); restaurarRolagem(y2); } }
@@ -1445,7 +1445,7 @@ body > *:not(.palco):not(.toast):not(script):not(style):not(#toast):not(.faixa-p
       if (n) h += '<button type="button" class="app-resumo" data-acao="revisar"><span>' + n + (n === 1 ? ' item' : ' itens') + ' no pedido</span><b>Ver pedido · ' + fmt(totalDe(cli.carrinho)) + '</b></button>';
       h += '<nav class="app-nav" aria-label="Navegação"><button type="button" data-acao="aba-inicio" aria-current="true" aria-label="Cardápio">' + CASA + '<span>Cardápio</span></button>' +
         '<button type="button" data-acao="revisar"' + (n ? '' : ' disabled') + ' aria-label="Meu pedido">' + SACOLA + '<span>Pedido</span>' + (n ? '<em>' + n + '</em>' : '') + '</button>' +
-        (temMesa() ? '<button type="button" data-acao="mesa-painel" aria-expanded="' + !!cli.painelMesa + '" aria-label="Mesa">' + SINO + '<span>Mesa</span></button>' : (P().meus && meusPedidos().length ? '<button type="button" data-acao="meus" aria-label="Meus pedidos">' + RECIBO + '<span>Pedidos</span></button>' : '')) + '</nav>';
+        (temMesa() ? '<button type="button" data-acao="mesa-painel" aria-expanded="' + !!cli.painelMesa + '" aria-label="Mesa">' + SINO + '<span>Mesa</span></button>' : (P().lista && meusPedidos().length ? '<button type="button" data-acao="meus" aria-label="Meus pedidos">' + RECIBO + '<span>Pedidos</span></button>' : '')) + '</nav>';
       if (cli.painelMesa && temMesa()) h += '<div class="app-mesa" role="dialog" aria-label="Mesa ' + cli.mesa + '"><b>Mesa ' + cli.mesa + '</b>' + mesaAcoes() + '<button type="button" class="app-mesa-x" data-acao="mesa-painel">Fechar</button></div>';
       if (cli.verProd) h += telaProduto();
       if (cli.verEnc && P().enc) h += '<div class="prod-tela enc-tela" role="dialog" aria-modal="true" aria-label="Encomendas"><div class="enc-topo"><button type="button" class="voltar-prod" data-acao="fechar-enc" aria-label="Voltar ao cardápio">←</button><b>Encomendas</b></div><div class="enc-corpo">' + blocoEncomenda() + '</div></div>';
@@ -1488,9 +1488,9 @@ body > *:not(.palco):not(.toast):not(script):not(style):not(#toast):not(.faixa-p
       });
       var nMeus = meusPedidos().length;
       h += '</ol><p class="dica-painel">Na demonstração, mude o status no painel da padaria e veja esta tela atualizar.</p><button type="button" class="btn-sec" data-acao="novo">Fazer outro pedido</button>' +
-        (nMeus > 1 ? '<button type="button" class="btn-sec" data-acao="meus" style="border-color:var(--borda)">Ver todos os meus pedidos (' + nMeus + ')</button>' : '') + '</div></div>';
+        (P().lista && nMeus > 1 ? '<button type="button" class="btn-sec" data-acao="meus" style="border-color:var(--borda)">Ver todos os meus pedidos (' + nMeus + ')</button>' : '') + '</div></div>';
     }
-    else if (cli.tela === 'meus' && !P().meus) { cli.tela = 'cardapio'; return renderCliente(); }
+    else if (cli.tela === 'meus' && !P().lista) { cli.tela = 'cardapio'; return renderCliente(); }
     else if (cli.tela === 'meus') {
       var NOME_ST = {novo:'Em preparo', pronto:'Pronto', entregue:'Entregue'};
       h += '<div class="rolagem"><div class="sec"><button type="button" class="voltar" data-acao="voltar">← Voltar ao cardápio</button><h3 style="font-size:15px;font-weight:800;letter-spacing:.09em;text-transform:uppercase;color:var(--vinho);margin:4px 0 12px;padding-bottom:8px;border-bottom:2px solid var(--ouro)">Meus pedidos de hoje</h3><div class="meus-lista">';
@@ -2106,7 +2106,7 @@ body > *:not(.palco):not(.toast):not(script):not(style):not(#toast):not(.faixa-p
     $('impTexto').textContent = p.auto ? 'Cada pedido novo toca um aviso e é impresso na hora, com o destino em letras grandes.' : 'Cada pedido novo toca um aviso no painel. A equipe toca em "Imprimir" e a comanda sai, com o destino em letras grandes.';
     $('impEnc').hidden = !p.enc;
     if (cli.modo === 'mesa' && p.mesas && cli.mesa > p.mesas) { var enc = cli.enc; cli = novoCliente(); cli.enc = enc; }
-    if (!p.meus && cli.tela === 'meus') cli.tela = 'cardapio';
+    if (!p.lista && cli.tela === 'meus') cli.tela = 'cardapio';
     if (!p.conta && cli.tela === 'conta') cli.tela = 'cardapio';
     montarQR(); renderCliente(); renderPainel(); renderEditor();
   }

diff --git a/public/index.html b/public/index.html
@@ -583,7 +583,7 @@ footer nav{display:flex;flex-wrap:wrap;gap:8px 20px;font-weight:600;color:var(--
           <summary>Ver todos os recursos<svg viewBox="0 0 24 24" fill="none" stroke="currentColor" stroke-width="2.2" stroke-linecap="round" stroke-linejoin="round"><path d="m6 9 6 6 6-6"/></svg></summary>
           <ul class="todos">
             <li class="grupo">Também inclui</li>
-            <li><svg viewBox="0 0 24 24" fill="none" stroke="currentColor" stroke-width="2.6" stroke-linecap="round" stroke-linejoin="round"><path d="M20 6 9 17l-5-5"/></svg>Acompanhar o pedido e "Meus pedidos"</li>
+            <li><svg viewBox="0 0 24 24" fill="none" stroke="currentColor" stroke-width="2.6" stroke-linecap="round" stroke-linejoin="round"><path d="M20 6 9 17l-5-5"/></svg>Acompanhar o pedido</li>
             <li><svg viewBox="0 0 24 24" fill="none" stroke="currentColor" stroke-width="2.6" stroke-linecap="round" stroke-linejoin="round"><path d="M20 6 9 17l-5-5"/></svg>Sem o selo da Octa no cardápio</li>
             <li><svg viewBox="0 0 24 24" fill="none" stroke="currentColor" stroke-width="2.6" stroke-linecap="round" stroke-linejoin="round"><path d="M20 6 9 17l-5-5"/></svg>Suporte com resposta em até 1 dia útil</li>
             <li class="grupo">Não inclui</li>
@@ -614,6 +614,7 @@ footer nav{display:flex;flex-wrap:wrap;gap:8px 20px;font-weight:600;color:var(--
           <summary>Ver todos os recursos<svg viewBox="0 0 24 24" fill="none" stroke="currentColor" stroke-width="2.2" stroke-linecap="round" stroke-linejoin="round"><path d="m6 9 6 6 6-6"/></svg></summary>
           <ul class="todos">
             <li class="grupo">Também inclui</li>
+            <li><svg viewBox="0 0 24 24" fill="none" stroke="currentColor" stroke-width="2.6" stroke-linecap="round" stroke-linejoin="round"><path d="M20 6 9 17l-5-5"/></svg>"Meus pedidos": o cliente vê todos os pedidos que fez</li>
             <li><svg viewBox="0 0 24 24" fill="none" stroke="currentColor" stroke-width="2.6" stroke-linecap="round" stroke-linejoin="round"><path d="M20 6 9 17l-5-5"/></svg>Melhorias ilimitadas: apresente suas ideias e a Octa Sites coloca em prática no seu sistema</li>
           </ul>
         </details>
